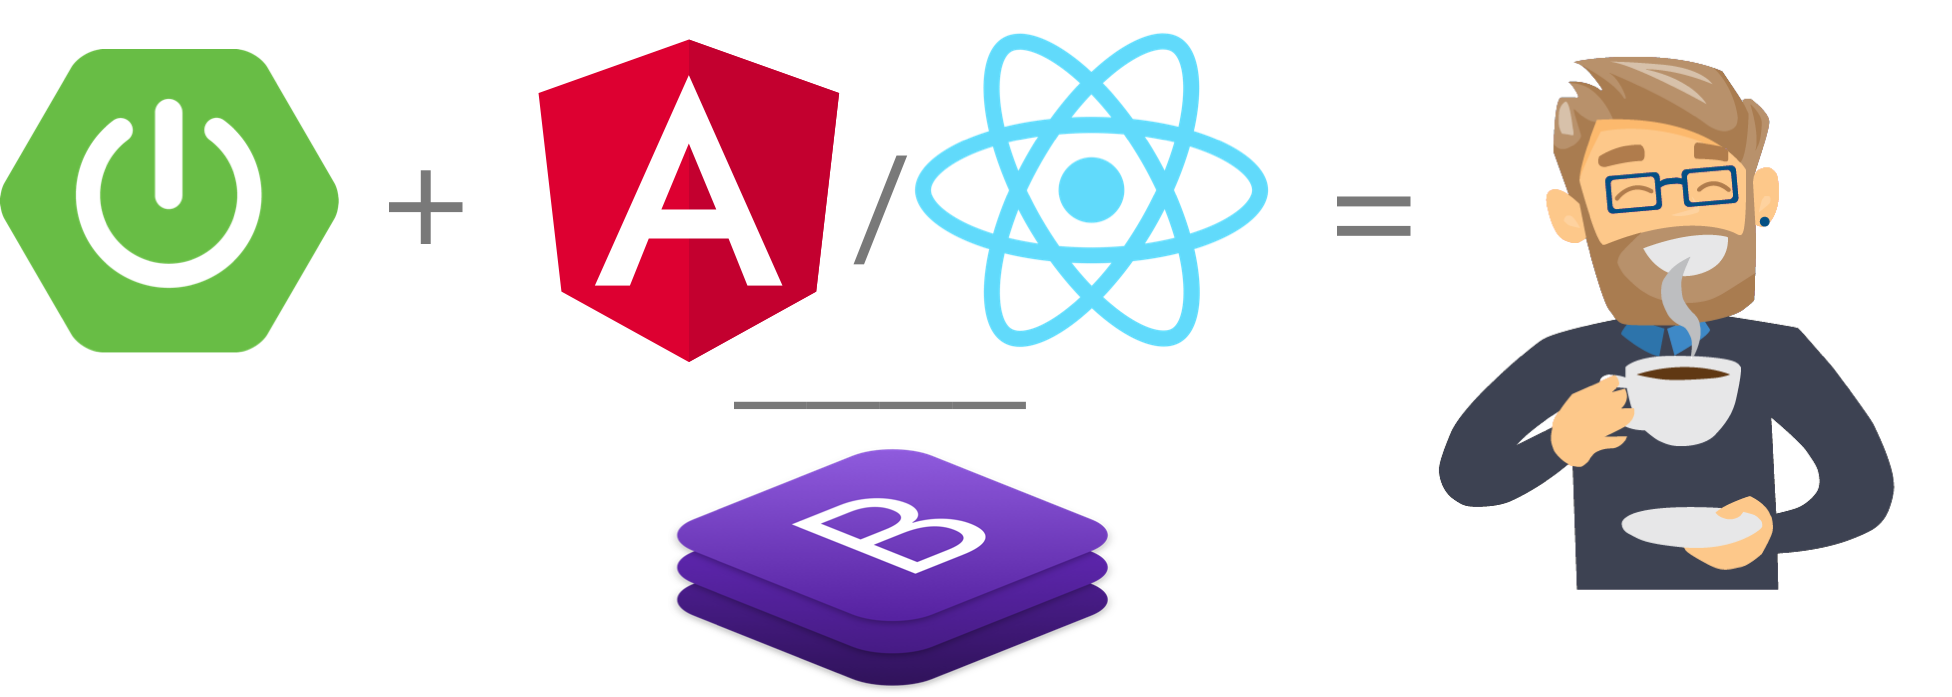
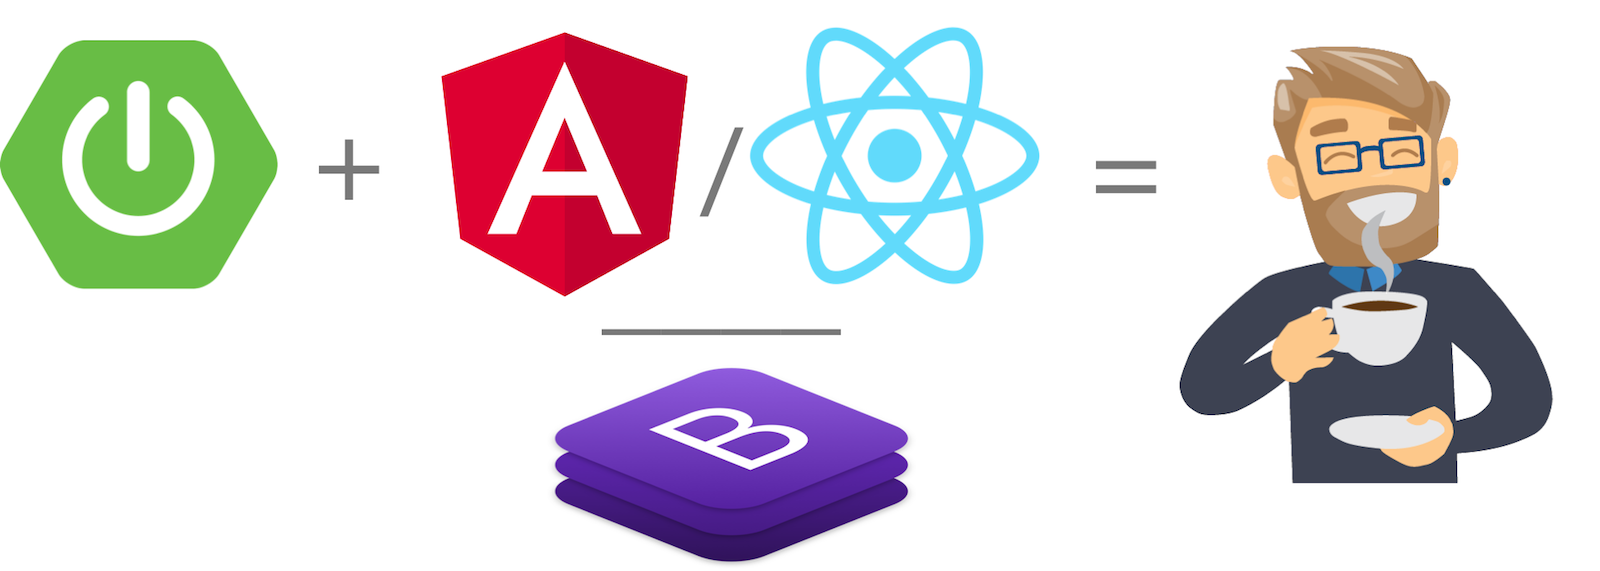
Optimize images and fix PR number [ci-skip]

Changed region(s): [[0.0625, 0.0595, 0.125, 0.0893], [0.8438, 0.268, 0.875, 0.2977]]

diff --git a/_source/_posts/2018-03-01-develop-microservices-jhipster-oauth.md b/_source/_posts/2018-03-01-develop-microservices-jhipster-oauth.md
@@ -445,6 +445,6 @@ If you have any feedback, I'd love to hear it! Please leave a comment below, hit
 
 **Changelog:**
 
-* Oct 11, 2018: Updated for [JHipster 5.4.2](https://www.jhipster.tech/2018/10/07/jhipster-release-5.4.2.html) and re-generated everything + tested. See the example app changes in [okta-jhipster-microservices-oauth-example#4](https://github.com/oktadeveloper/okta-jhipster-microservices-oauth-example/pull/4); changes to this post can be viewed in [okta.github.io#2391](https://github.com/okta/okta.github.io/pull/2391).
+* Oct 11, 2018: Updated for [JHipster 5.4.2](https://www.jhipster.tech/2018/10/07/jhipster-release-5.4.2.html) and re-generated everything + tested. See the example app changes in [okta-jhipster-microservices-oauth-example#4](https://github.com/oktadeveloper/okta-jhipster-microservices-oauth-example/pull/4); changes to this post can be viewed in [okta.github.io#2392](https://github.com/okta/okta.github.io/pull/2392).
 * Sep 21, 2018: Updated to use JHipster 5.3.4 and its `import-jdl` feature. Added Elasticsearch back in since it now works on Heroku. See the example app changes in [okta-jhipster-microservices-oauth-example#3](https://github.com/oktadeveloper/okta-jhipster-microservices-oauth-example/pull/3); changes to this post can be viewed in [okta.github.io#2336](https://github.com/okta/okta.github.io/pull/2336).
 * Aug 14, 2018: Updated to use JHipster 5.1.0 and Spring Boot 2.0.3. Removed Elasticsearch from blog and store apps since it doesn't work on Heroku. See the example app changes in [okta-jhipster-microservices-oauth-example#2](https://github.com/oktadeveloper/okta-jhipster-microservices-oauth-example/pull/2); changes to this post can be viewed in [okta.github.io#2254](https://github.com/okta/okta.github.io/pull/2254).
